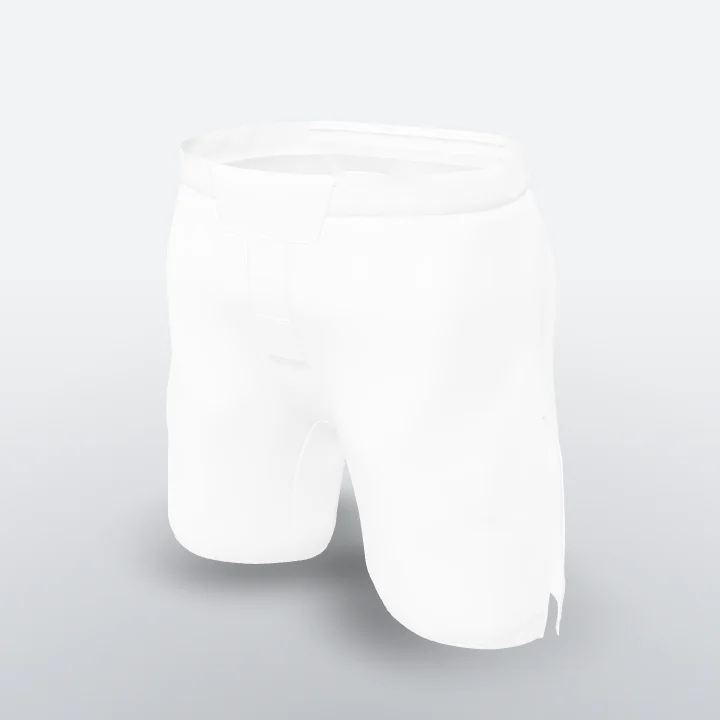
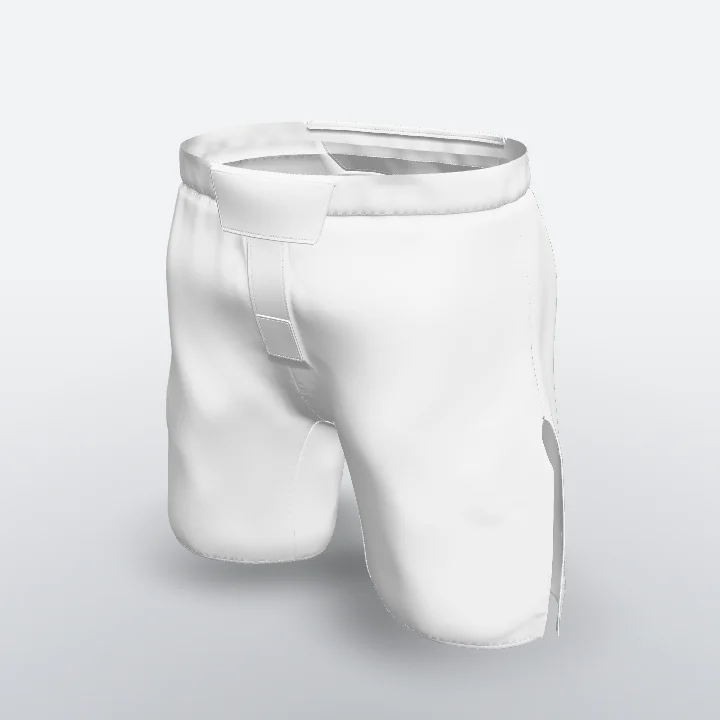
Viewer: Lichtstimmung "epic" (mehr Kontrast, Seitenlicht, Gegenlicht), fuer FIGHTERO Shorts V05 aktiv
Pro Modell ueber "light": "epic" in info.json, oder fuer jedes Modell per ?light=epic im Link.

Claude-Session: https://claude.ai/code/session_01DSpxoDWrA6vUTTvgs7sBKq

Changed region(s): [[0.2139, 0.1528, 0.7333, 0.9167], [0.7333, 0.5806, 0.7944, 0.8556]]

diff --git a/lib/viewer.js b/lib/viewer.js
@@ -187,6 +187,10 @@ export class Viewer {
 
     this.key = new THREE.DirectionalLight(0xffffff, 0.9);
     this.scene.add(this.key, this.key.target);
+    // Gegenlicht von hinten oben, nur im Licht „epic“ an (setzt die Silhouette ab)
+    this.rim = new THREE.DirectionalLight(0xffffff, 0);
+    this.scene.add(this.rim, this.rim.target);
+    this.lightPreset = 'standard';
     this.contact = new ContactShadow(this.renderer);
     this.ground = this.contact.group;
     this.scene.add(this.ground);
@@ -261,7 +265,7 @@ export class Viewer {
     this.radius = Math.max(this.box.getBoundingSphere(new THREE.Sphere()).radius, 1e-3);
 
     const r = this.radius;
-    this.key.position.set(r * 1.2, r * 3, r * 1.5);
+    this.placeLights();
     this.camera.near = r / 200; this.camera.far = r * 200; this.camera.updateProjectionMatrix();
     this.controls.minDistance = r * 0.25; this.controls.maxDistance = r * 12;
     this.fitAO();
@@ -351,6 +355,28 @@ export class Viewer {
     m.userData.side0 = side;
     this.overrides.set(key, m);
     return m;
+  }
+
+  /** Lichtstimmung: 'standard' (hell, gleichmäßig) oder 'epic' (weniger Umgebungslicht, starkes Seitenlicht,
+   *  Gegenlicht von hinten, etwas dunkler belichtet: mehr Form und Kontrast, gut für weiße Stoffe). */
+  setLight(preset = 'standard') {
+    this.lightPreset = preset === 'epic' ? 'epic' : 'standard';
+    const epic = this.lightPreset === 'epic';
+    this.scene.environmentIntensity = epic ? 0.42 : 1.35;
+    this.key.intensity = epic ? 2.4 : 0.9;
+    this.rim.intensity = epic ? 1.6 : 0;
+    this.renderer.toneMappingExposure = epic ? 0.95 : 1;
+    this.placeLights();
+  }
+
+  placeLights() {
+    const r = this.radius || 1;
+    if (this.lightPreset === 'epic') {
+      this.key.position.set(r * 2.6, r * 2.2, r * 1.3);     // flach von der Seite: Falten, Nähte und Kanten zeichnen
+      this.rim.position.set(-r * 1.4, r * 2.0, -r * 2.6);
+    } else {
+      this.key.position.set(r * 1.2, r * 3, r * 1.5);
+    }
   }
 
   setMode(mode) { this.mode = mode; this.applyMode(); }

diff --git a/lib/app.js b/lib/app.js
@@ -86,6 +86,7 @@ async function open(info, getFile, resources, remoteUrl, arUrl) {
     $('loadTxt').textContent = 'Modell wird aufbereitet';
     const loaded = await loadAny(file, resources, { renderer: viewer.renderer });
     viewer.setModel(loaded);
+    viewer.setLight(params.get('light') || info.light || 'standard');
     if (info.exposure) viewer.renderer.toneMappingExposure = info.exposure;
     // Standard: steht still. Drehen nur per Knopf oder mit ?rotate=1 im Link
     const rot = params.get('rotate') === '1' && !loaded.animations.length;
